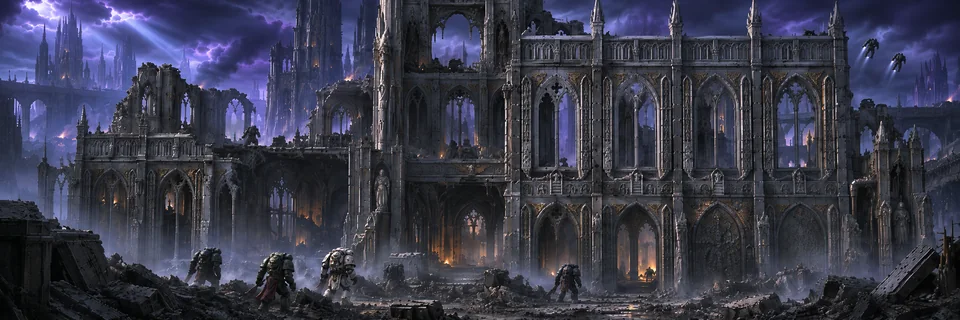
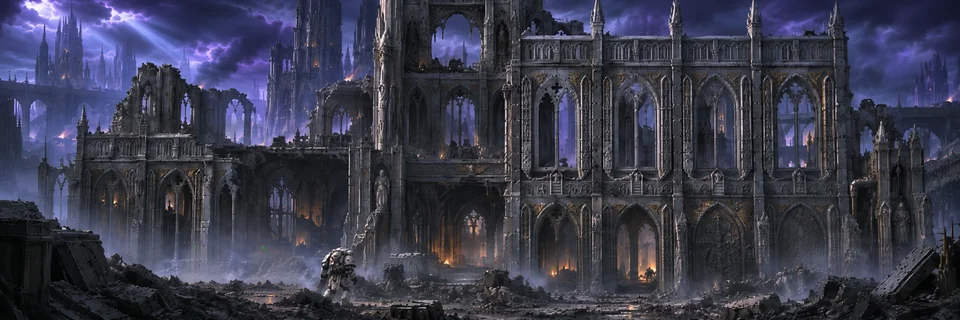
Replace Siofra postwar artwork with approved selective figure removal

diff --git a/severed-ember/index.html b/severed-ember/index.html
@@ -818,7 +818,7 @@ M42的监听簿里，十三秒的引力脉冲仍在。</p>
 <p>先过金穹，再下石廊。旗官宣读归来人数，告解者读未归名单。新骑士从《未归》下经过，没有人告诉他最后一幅该如何完成。</p>
 <p>075.M42后，一名矿民母亲要求把儿子应征前的名字刻进石碑。议会拒绝。奥瑞克把她写下的名字收在碑后，没有让人刮掉。</p>
 <h4 id="codex-v02-postwar">希芙拉 · 战后的石廊</h4>
-<figure class="archive-plate chapter-context-art" data-approved-art="20261128-siofra-postwar"><a href="assets/approved-art-20261128/siofra-postwar-patrol.webp" target="_blank" rel="noopener noreferrer" aria-label="查看希芙拉战后巡防完整图版"><img src="assets/approved-art-20261128/siofra-postwar-patrol.webp" alt="蓝紫色伪星穹顶下，隐修会战士巡视受损的哥特式修道院" width="2172" height="724" loading="lazy" decoding="async" style="display:block;width:100%;height:auto;object-fit:contain" srcset="assets/approved-art-20261128/siofra-postwar-patrol-mobile.webp 960w, assets/approved-art-20261128/siofra-postwar-patrol.webp 2172w" sizes="(max-width:800px) 70vw, (max-width:1200px) 76vw, 60vw"></a><figcaption><strong>希芙拉 · 075.M42战后巡防</strong></figcaption></figure>
+<figure class="archive-plate chapter-context-art" data-approved-art="20261128-siofra-postwar"><a href="assets/approved-art-20261128/siofra-postwar-patrol.webp?v=20261128b" target="_blank" rel="noopener noreferrer" aria-label="查看希芙拉战后巡防完整图版"><img src="assets/approved-art-20261128/siofra-postwar-patrol.webp?v=20261128b" alt="蓝紫色伪星穹顶下，隐修会战士巡视受损的哥特式修道院" width="2172" height="724" loading="lazy" decoding="async" style="display:block;width:100%;height:auto;object-fit:contain" srcset="assets/approved-art-20261128/siofra-postwar-patrol-mobile.webp?v=20261128b 960w, assets/approved-art-20261128/siofra-postwar-patrol.webp?v=20261128b 2172w" sizes="(max-width:800px) 70vw, (max-width:1200px) 76vw, 60vw"></a><figcaption><strong>希芙拉 · 075.M42战后巡防</strong></figcaption></figure>
 <p>深渊之井一役后，第一环区的部分通路仍未恢复。守卫沿残存的拱廊重新布置警戒，内环骑士与突击老兵轮流巡视受损区域。遗迹铁匠优先恢复供水与升降设施，破损的穹顶和圣堂外墙则暂未修缮。</p>
 <p>部分旧殿重新开放，封闭区域的守卫尚未撤去。</p>
 <h4 id="codex-v02-h-4-5">核心舰船：余烬号</h4>
